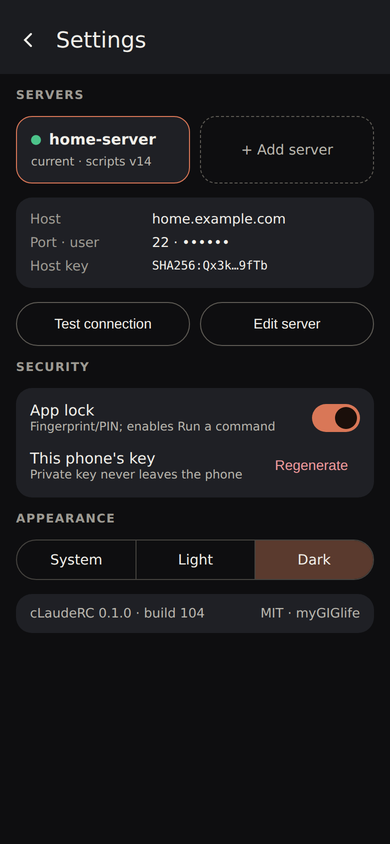
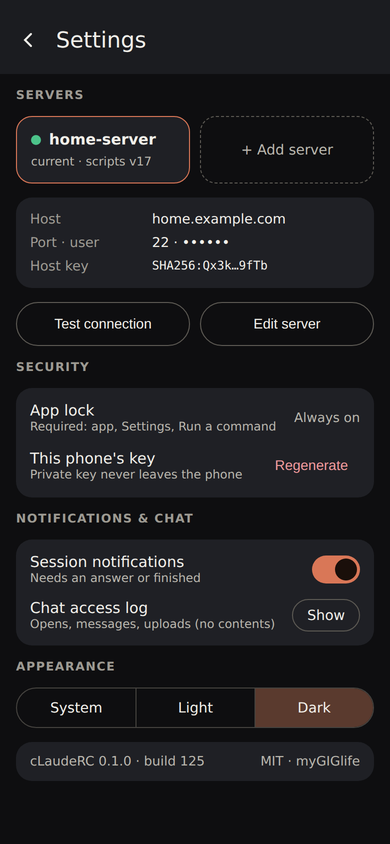
README: new screenshots (chat, chat PIN, Chat button, notifications/chat log settings) and tour
Made-up example data throughout.

Claude-Session: https://claude.ai/code/session_01QhU563CrcyXGg75xK917KM

diff --git a/README.md b/README.md
@@ -9,7 +9,7 @@
 
 **[⬇ Download the latest APK](https://github.com/myGIGlife-claude/Claude-RC/releases/tag/latest-main)**
 
-<p align="center"><img src="docs/screens/tour.gif" width="300" alt="A tour of cLaudeRC: sessions, the session log with answer keys, connections, a connection's details, connecting a service, the Claude tab and installing a plugin, projects"></p>
+<p align="center"><img src="docs/screens/tour.gif" width="300" alt="A tour of cLaudeRC: sessions, the chat PIN, chatting with Claude in the app, the session log with answer keys, connections, a connection's details, connecting a service, the Claude tab and installing a plugin, projects"></p>
 
 Start and manage Claude Code **Remote Control** sessions on your own server
 from your Android phone — check logins, create a new GitHub project or open an
@@ -35,30 +35,30 @@ existing one, and start Claude in it, without opening an SSH terminal.
 <table>
 <tr>
 <td><img src="docs/screens/sessions.png" width="200" alt="Sessions: each Claude session with its last lines; one waiting for an answer"></td>
+<td><img src="docs/screens/chat.png" width="200" alt="In-app chat with Claude: bubbles, folded tool steps, attach, stop"></td>
+<td><img src="docs/screens/chat-pin.png" width="200" alt="Chat PIN: asked on every open and after leaving the app"></td>
 <td><img src="docs/screens/session-log.png" width="200" alt="Session log: green terminal with answer keys"></td>
+</tr>
+<tr>
+<td align="center">Sessions</td><td align="center">Chat</td><td align="center">Chat PIN</td><td align="center">Session log</td>
+</tr>
+<tr>
 <td><img src="docs/screens/connections.png" width="200" alt="Connections: tiles for core logins, services, MCP servers and keys"></td>
 <td><img src="docs/screens/details.png" width="200" alt="A connection's details with edit, test and disconnect"></td>
-</tr>
-<tr>
-<td align="center">Sessions</td><td align="center">Session log</td><td align="center">Connections</td><td align="center">Details</td>
-</tr>
-<tr>
 <td><img src="docs/screens/add-service.png" width="200" alt="Connect a service: searchable A–Z list"></td>
 <td><img src="docs/screens/claude-tab.png" width="200" alt="Claude tab: version, plugins, tools, marketplaces"></td>
+</tr>
+<tr>
+<td align="center">Connections</td><td align="center">Details</td><td align="center">+ Connect a service</td><td align="center">Claude tab</td>
+</tr>
+<tr>
 <td><img src="docs/screens/install-plugin.png" width="200" alt="Install a plugin from your marketplaces"></td>
-<td><img src="docs/screens/projects.png" width="200" alt="Projects as tiles with filters"></td>
-</tr>
-<tr>
-<td align="center">+ Connect a service</td><td align="center">Claude tab</td><td align="center">Install a plugin</td><td align="center">Projects</td>
-</tr>
-<tr>
+<td><img src="docs/screens/projects.png" width="200" alt="Projects as tiles with Running / On server / All / Archived"></td>
 <td><img src="docs/screens/run-command.png" width="200" alt="Run a command: terminal with scrollback and sudo password"></td>
-<td><img src="docs/screens/new-project.png" width="200" alt="New project"></td>
-<td><img src="docs/screens/settings.png" width="200" alt="Settings: servers, security, appearance"></td>
-<td><img src="docs/screens/setup.png" width="200" alt="First run: add your server with one command"></td>
+<td><img src="docs/screens/settings.png" width="200" alt="Settings: servers, security, notifications, chat access log"></td>
 </tr>
 <tr>
-<td align="center">Run a command</td><td align="center">New project</td><td align="center">Settings</td><td align="center">First run</td>
+<td align="center">Install a plugin</td><td align="center">Projects</td><td align="center">Run a command</td><td align="center">Settings</td>
 </tr>
 </table>
 
